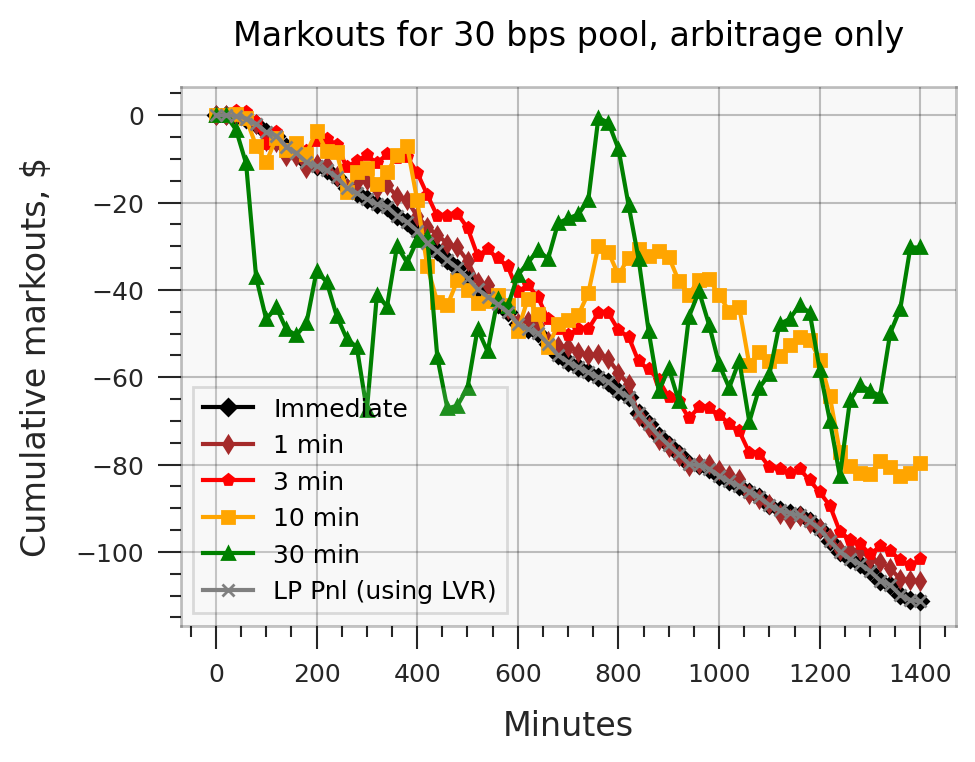
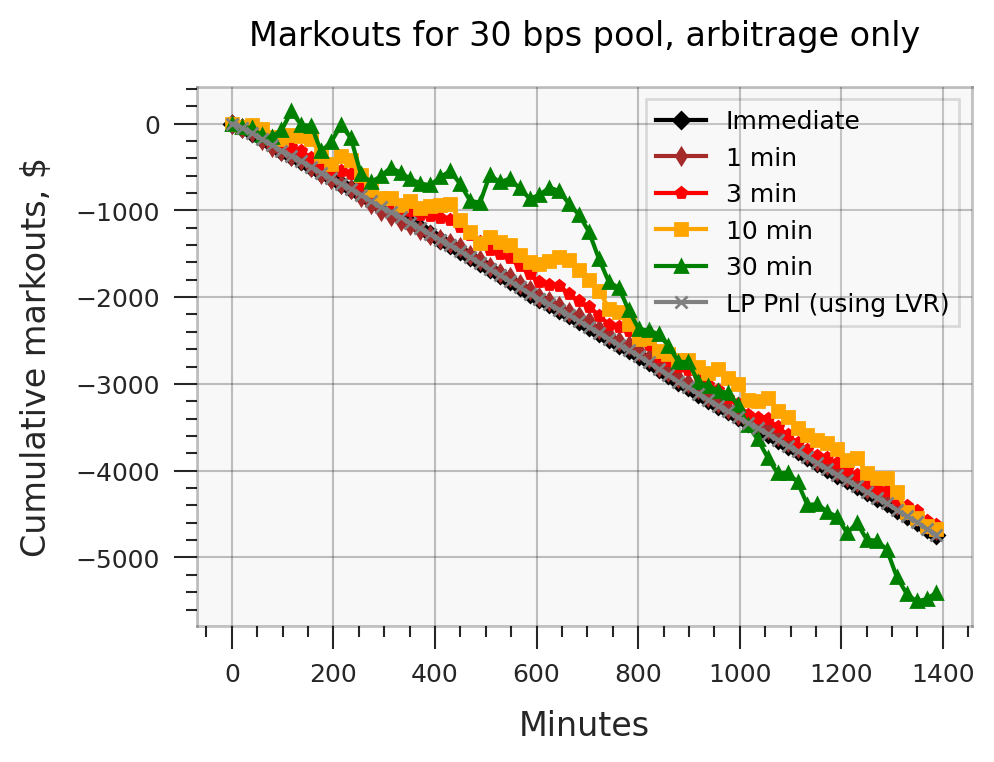
fix the volatility value, and other small changes

diff --git a/simulate.py b/simulate.py
@@ -14,13 +14,13 @@ pl.rcParams["savefig.dpi"] = 200
 # the volatility of ETH price per one year - approximately matches the recent year's data
 ETH_VOLATILITY = 0.5
 
-ETH_VOLATILITY_PER_SECOND = ETH_VOLATILITY / np.sqrt(365 * 24 * 60 * 60)
+BLOCK_TIME_SEC = 12
+
+ETH_VOLATILITY_PER_BLOCK = ETH_VOLATILITY / np.sqrt(365 * 24 * 60 * 60 / BLOCK_TIME_SEC)
 
 SIMULATION_DURATION_SEC = 86400
 
-NUM_SIMULATIONS = 50
-
-BLOCK_TIME = 12
+NUM_SIMULATIONS = 200
 
 ############################################################
 
@@ -40,7 +40,7 @@ def get_price_paths(n, sigma, mu, M=NUM_SIMULATIONS):
 def estimate_performance(prices, noise_trades=None, swap_fee_bps=None, basefee_usd=None, include_arb=True):
     dex = DEX()
     #dex.debug_log = True
-    dex.block_time_sec = BLOCK_TIME
+    dex.block_time_sec = BLOCK_TIME_SEC
     if swap_fee_bps is not None:
         dex.set_fee_bps(swap_fee_bps)
     if basefee_usd is not None:
@@ -65,7 +65,7 @@ def estimate_performance(prices, noise_trades=None, swap_fee_bps=None, basefee_u
                 dex.swap_y_to_x(trade_amount, prices, i)
                 lp_pnl.append(dex.lp_fees - dex.lvr)
 
-    return dex.lvr, dex.lp_fees, dex.volume, dex.markouts, lp_pnl
+    return dex.lvr, dex.lp_fees, dex.volume, dex.volume_arb, dex.markouts, lp_pnl
 
 
 ############################################################
@@ -83,8 +83,6 @@ def plot_performance_arb_only(all_prices, duration_seconds, swap_fee_bps):
     fig, ax = pl.subplots()
     fig.set_size_inches((5, 3.5))
 
-    num_blocks = int(duration_seconds // BLOCK_TIME)
-
     all_volume = []
     all_markouts_0 = []
     all_markouts_1 = []
@@ -95,9 +93,8 @@ def plot_performance_arb_only(all_prices, duration_seconds, swap_fee_bps):
 
     for sim in range(all_prices.shape[1]):
         prices = all_prices[:,sim]
-        if num_blocks is not None:
-            prices = prices[:num_blocks]
-        lvr, lp_fees, volume, markouts, lp_pnl = \
+        num_blocks = len(prices)
+        lvr, lp_fees, volume, arb_volume, markouts, lp_pnl = \
             estimate_performance(prices, None, swap_fee_bps)
         all_volume.append(volume)
         all_markouts_0.append(markouts[0])
@@ -123,7 +120,7 @@ def plot_performance_arb_only(all_prices, duration_seconds, swap_fee_bps):
     #pl.ylim(-100, +10)
     pl.title(f"Markouts for {swap_fee_bps} bps pool, arbitrage only")
 
-    avg_volume = np.mean(volume)
+    avg_volume = np.mean(all_volume)
     print(f"arb only: volume={avg_volume / 1e6:.2f} M")
 
     pl.savefig(f"markouts_arb_only_{swap_fee_bps}bps.png", bbox_inches='tight')
@@ -152,13 +149,15 @@ def generate_trades(num_blocks, expected_volume_per_block):
     values[indices[:num_to_invert]] *= -1
     return values
 
-# try to match the noise trades and normal trades 50:50
-def get_expected_volume_per_block(swap_fee_bps):
-    return ({
-        5: 12e6,
-        30: 1.8e6,
-        100: 0.01e6
-    }[swap_fee_bps] / 7200) / 5
+def get_expected_noise_volume_per_block(swap_fee_bps):
+    expected_arb_volume = ({
+        5: 133e6,
+        30: 27e6,
+        100: 8.3e6
+    }[swap_fee_bps] / 7200)
+
+    # try to match the noise trades and arbitrage trades in proportion 1:3 (so that 25% is arbitrage)
+    return expected_arb_volume / 3
 
 ############################################################
 
@@ -166,25 +165,24 @@ def plot_performance_both(all_prices, duration_seconds, swap_fee_bps):
     fig, ax = pl.subplots()
     fig.set_size_inches((5, 3.5))
 
-    num_blocks = int(duration_seconds // BLOCK_TIME)
-
     all_markouts_0 = []
     all_markouts_1 = []
     all_markouts_3 = []
     all_markouts_10 = []
     all_markouts_30 = []
     all_volume = []
+    all_arb_volume = []
     all_lp_pnl = []
 
-    noise_trades = generate_trades(num_blocks, get_expected_volume_per_block(swap_fee_bps))
+    num_blocks = len(all_prices[:,0])
+    noise_trades = generate_trades(num_blocks, get_expected_noise_volume_per_block(swap_fee_bps))
 
     for sim in range(all_prices.shape[1]):
         prices = all_prices[:,sim]
-        if num_blocks is not None:
-            prices = prices[:num_blocks]
-        lvr, lp_fees, volume, markouts, lp_pnl = \
+        lvr, lp_fees, volume, arb_volume, markouts, lp_pnl = \
             estimate_performance(prices, noise_trades, swap_fee_bps)
         all_volume.append(volume)
+        all_arb_volume.append(arb_volume)
         all_markouts_0.append(markouts[0])
         all_markouts_1.append(markouts[1])
         all_markouts_3.append(markouts[3])
@@ -206,8 +204,10 @@ def plot_performance_both(all_prices, duration_seconds, swap_fee_bps):
     pl.legend()
     pl.title(f"Markouts for {swap_fee_bps} bps pool, arbitrage & noise traders")
 
-    avg_volume = np.mean(volume)
-    print(f"arb and noise: volume={avg_volume / 1e6:.3f} M")
+    avg_volume = np.mean(all_volume)
+    avg_arb_volume = np.mean(all_arb_volume)
+    arbitrage_percentage = 100 * avg_arb_volume / avg_volume
+    print(f"arb and noise: volume={avg_volume / 1e6:.3f} M, arbitrage %: {arbitrage_percentage:.2f}")
 
     pl.savefig(f"markouts_both_{swap_fee_bps}bps.png", bbox_inches='tight')
 
@@ -217,8 +217,6 @@ def plot_performance_noise_only(all_prices, duration_seconds, swap_fee_bps):
     fig, ax = pl.subplots()
     fig.set_size_inches((5, 3.5))
 
-    num_blocks = int(duration_seconds // BLOCK_TIME)
-
     all_markouts_0 = []
     all_markouts_1 = []
     all_markouts_3 = []
@@ -227,13 +225,12 @@ def plot_performance_noise_only(all_prices, duration_seconds, swap_fee_bps):
     all_volume = []
     all_lp_pnl = []
 
-    noise_trades = generate_trades(num_blocks, get_expected_volume_per_block(swap_fee_bps))
+    num_blocks = len(all_prices[:,0])
+    noise_trades = generate_trades(num_blocks, get_expected_noise_volume_per_block(swap_fee_bps))
 
     for sim in range(all_prices.shape[1]):
         prices = all_prices[:,sim]
-        if num_blocks is not None:
-            prices = prices[:num_blocks]
-        lvr, lp_fees, volume, markouts, lp_pnl = \
+        lvr, lp_fees, volume, arb_volume, markouts, lp_pnl = \
             estimate_performance(prices, noise_trades, swap_fee_bps, include_arb=False)
         all_volume.append(volume)
         all_markouts_0.append(markouts[0])
@@ -256,18 +253,14 @@ def plot_performance_noise_only(all_prices, duration_seconds, swap_fee_bps):
     pl.legend()
     pl.title(f"Markouts for {swap_fee_bps} bps pool, noise only")
 
-    avg_volume = np.mean(volume)
-    print(f"arb and noise: volume={avg_volume / 1e6:.3f} M")
-
     pl.savefig(f"markouts_noise_only_{swap_fee_bps}bps.png", bbox_inches='tight')
 
 ############################################################
 
 def simulate_some_blocks():
     n = SIMULATION_DURATION_SEC
-    all_prices = get_price_paths(n, sigma=ETH_VOLATILITY_PER_SECOND, mu=0.0)
+    all_prices = get_price_paths(n // BLOCK_TIME_SEC, sigma=ETH_VOLATILITY_PER_BLOCK, mu=0.0)
     for swap_fee_bps in [5, 30]:
-    #for swap_fee_bps in [5]:
         plot_performance_arb_only(all_prices, SIMULATION_DURATION_SEC - 2000, swap_fee_bps)
         plot_performance_both(all_prices, SIMULATION_DURATION_SEC - 2000, swap_fee_bps)
         plot_performance_noise_only(all_prices, SIMULATION_DURATION_SEC - 2000, swap_fee_bps)

diff --git a/dex.py b/dex.py
@@ -37,6 +37,7 @@ class DEX:
         self.reserve_y = POOL_RESERVES_USD
         # -- cumulative metrics
         self.volume = 0
+        self.volume_arb = 0
         self.lp_fees = 0
         self.lvr = 0
         self.sbp_profits = 0
@@ -85,6 +86,7 @@ class DEX:
     def swap_x_to_y(self, amount_in_x, cex_prices, index):
         amount_in_x_without_fee = amount_in_x / self.fee_factor
 
+        assert amount_in_x > amount_in_x_without_fee
         price = self.price()
         self.lp_fees += (amount_in_x - amount_in_x_without_fee) * price
         self.reserve_x += amount_in_x_without_fee
@@ -96,14 +98,14 @@ class DEX:
         self.basefees += self.basefee_usd
         if self.debug_log:
             print("swap x to y", y_out)
-        self.add_markouts(amount_in_x, -y_out, price, cex_prices, index)
+        self.add_markouts(amount_in_x, -y_out, cex_prices, index)
         return y_out
 
 
     def swap_y_to_x(self, amount_in_y, cex_prices, index):
         amount_in_y_without_fee = amount_in_y / self.fee_factor
 
-        price = self.price()
+        assert amount_in_y > amount_in_y_without_fee
         self.lp_fees += amount_in_y - amount_in_y_without_fee
         self.reserve_y += amount_in_y_without_fee
         x_out = amount_in_y_without_fee * self.reserve_x / self.reserve_y
@@ -114,7 +116,7 @@ class DEX:
         self.basefees += self.basefee_usd
         if self.debug_log:
             print("swap y to x", amount_in_y)
-        self.add_markouts(-x_out, amount_in_y, price, cex_prices, index)
+        self.add_markouts(-x_out, amount_in_y, cex_prices, index)
         return x_out
 
 
@@ -180,23 +182,25 @@ class DEX:
             lp_loss_vs_lvr = (single_transaction_lvr - lp_fee) / single_transaction_lvr
             print(f" DEX price: {self.reserve_y/self.reserve_x:.4f}->{new_reserve_y/new_reserve_x:.4f} CEX price: {cex_price:.4f} LP fee={lp_fee:.2f} LVR={single_transaction_lvr:.2f} loss: {100*lp_loss_vs_lvr:.1f}%")
 
-        dex_price = self.reserve_y / self.reserve_x
         self.reserve_x += delta_x
         self.reserve_y += delta_y
 
         # then update the cumulative metrics
-        self.volume += abs(delta_y) + lp_fee
+        trade_volume = abs(delta_y_with_fee)
+        self.volume += trade_volume
+        self.volume_arb += trade_volume
+
         self.lp_fees += lp_fee
         self.lvr += single_transaction_lvr
         self.sbp_profits += sbp_profit
         self.basefees += self.basefee_usd
         self.num_tx += 1
         if include_markouts:
-            self.add_markouts(delta_x_with_fee, delta_y_with_fee, dex_price, cex_prices, index)
+            self.add_markouts(delta_x_with_fee, delta_y_with_fee, cex_prices, index)
 
         return True
 
-    def add_markouts(self, delta_x, delta_y, dex_price, cex_prices, index):
+    def add_markouts(self, delta_x, delta_y, cex_prices, index):
         cex_price = cex_prices[index]
         execution_price = abs(delta_y / delta_x)
         for markout_minutes in self.markouts.keys():
